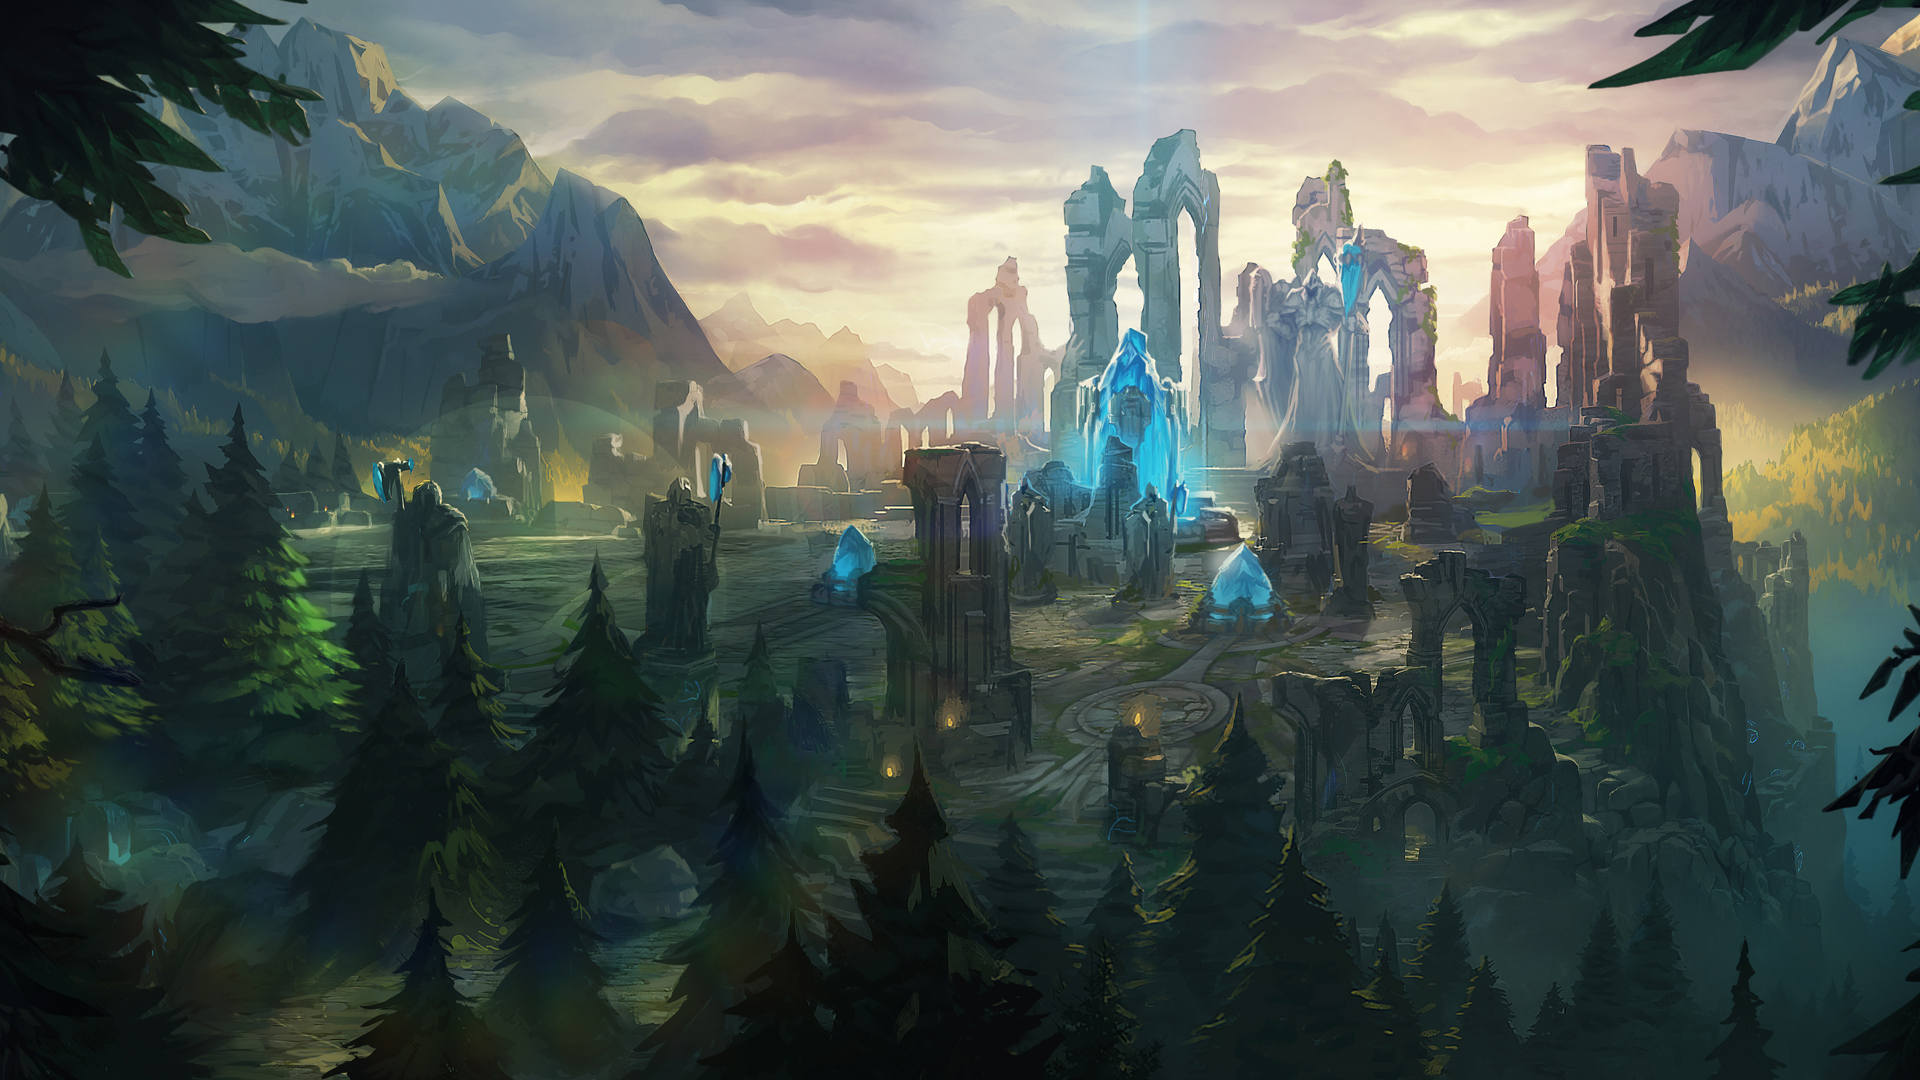
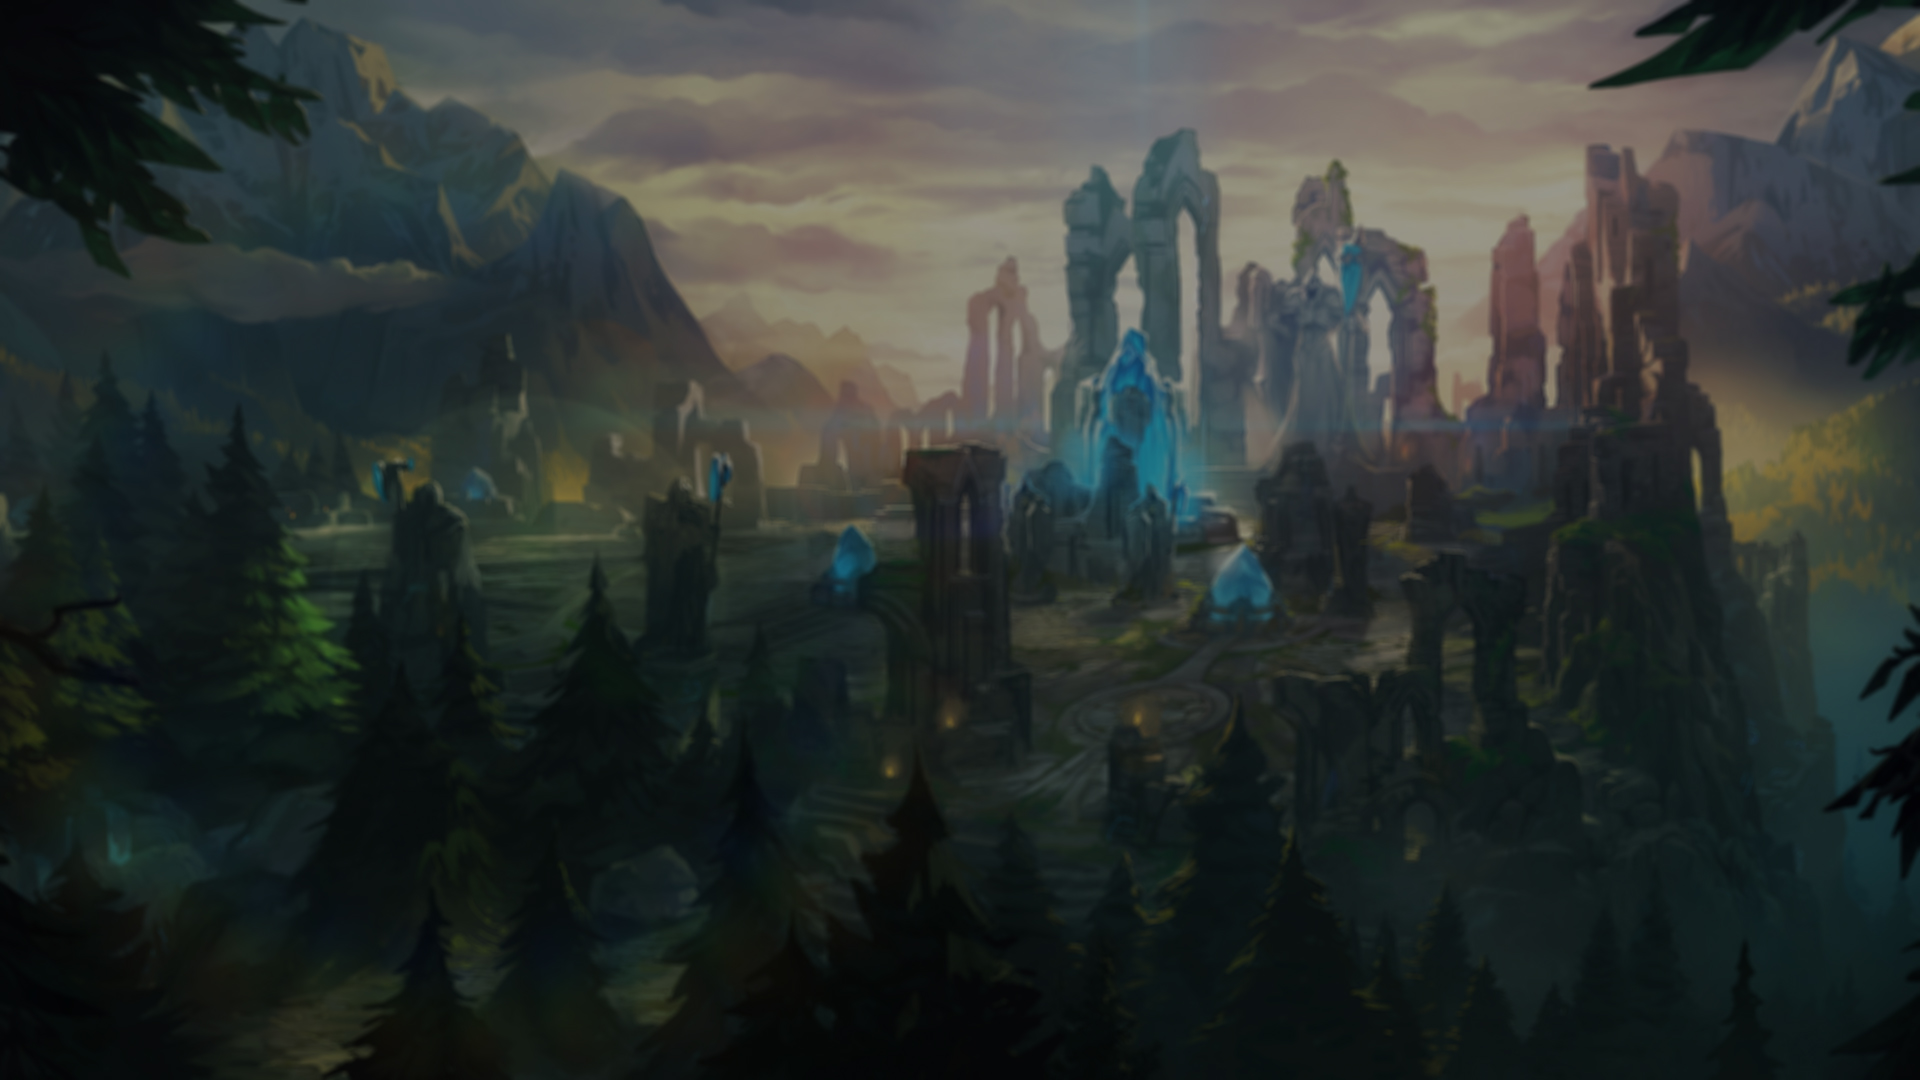
typo

diff --git a/results.php b/results.php
@@ -23,7 +23,7 @@
        <?php
         //$key = readfile("api.txt");
         
-            $ver="v0.129a";
+            $ver="v0.130a";
             
             $stringrequest = NULL;
 
@@ -435,7 +435,7 @@
                            <?php 
 echo "$.backstretch('assets/maps/";
                             if($mapId === 11){
-                                echo "summonersriftT";
+                                echo "summonersrift";
                             }
                             else if($mapId === 12){
                                 echo "howlingabyss";
